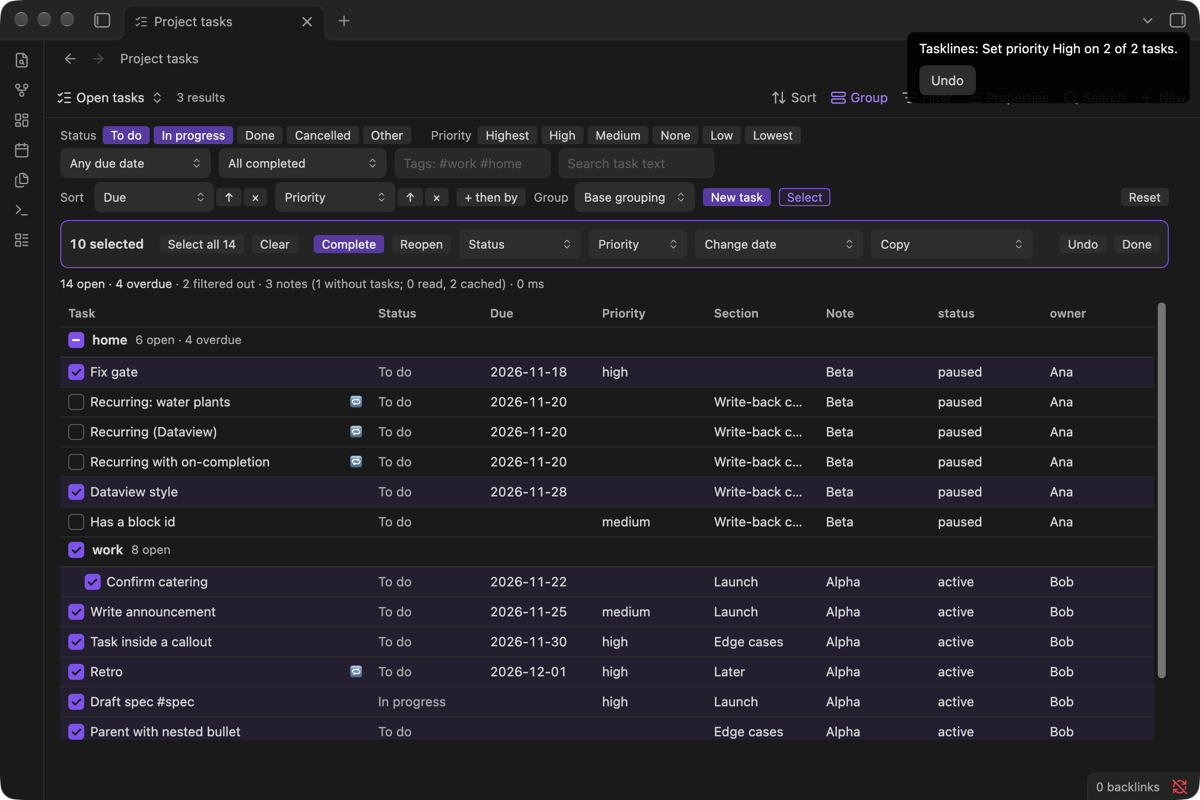
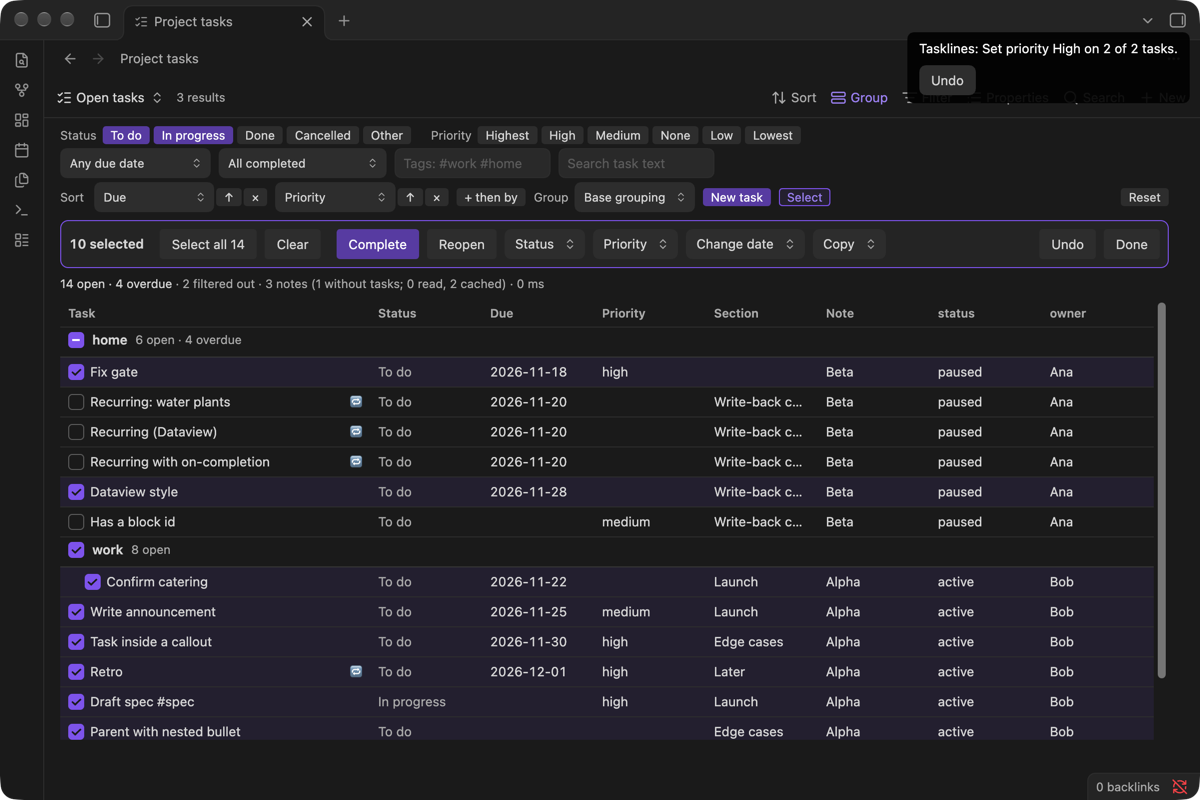
Tidy the select-mode bar and line up the group checkboxes
- The bar's buttons are as tall as its menus, so it reads as one row of
  controls; on phones the menus match the buttons' text size too.
- Menus are as wide as their label instead of their longest option.
- Group checkboxes on board columns, calendar days and the No date tray
  sit right above the tasks' boxes, from the theme's spacing values.
- The stats line keeps "0 ms" together (a no-break space).
- Retakes the README and listing images of select mode.

diff --git a/styles.css b/styles.css
@@ -244,8 +244,21 @@
 .tasklines-card.is-selected { border-color: var(--interactive-accent); }
 .tasklines-status-done .tasklines-select-text, .tasklines-status-cancelled .tasklines-select-text { text-decoration: line-through; color: var(--text-faint); }
 /* The group checkbox: first in its heading, in line with the tasks' boxes; the label's padding widens the tap target without moving the box. */
-.tasklines-group-select { display: inline-flex; align-items: center; flex: none; align-self: center; padding: 4px; margin: -4px; cursor: pointer; }
-.tasklines-touch .tasklines-group-select { padding: 11px; margin: -11px; }
+.tasklines-group-select {
+	--tasklines-hit: 4px;
+	display: inline-flex; align-items: center; flex: none; align-self: center; cursor: pointer;
+	padding: var(--tasklines-hit);
+	margin: calc(-1 * var(--tasklines-hit));
+	/* Moved in by the tasks' own inset (below), so the box sits right above theirs. */
+	margin-inline-start: calc(var(--tasklines-box-inset, 0px) - var(--tasklines-hit));
+}
+.tasklines-touch .tasklines-group-select { --tasklines-hit: 11px; }
+/* Board cards sit inside the column's side padding, with a border and their own padding; the heading has more padding. */
+.tasklines-column-head { --tasklines-box-inset: calc(var(--size-4-2) * 2 + 1px - var(--size-4-3)); }
+/* Calendar tray chips are narrower: 4px side padding. */
+.tasklines-cal-tray .tasklines-column-head { --tasklines-box-inset: calc(var(--size-4-2) + 5px - var(--size-4-3)); }
+/* Agenda chips: a border and their padding, inside the same section as the heading. */
+.tasklines-agenda-head { --tasklines-box-inset: calc(var(--size-4-2) + 1px); }
 .tasklines-view.is-selecting .tasklines-column-head, .tasklines-view.is-selecting .tasklines-agenda-head { justify-content: flex-start; align-items: center; gap: var(--size-4-2); }
 .tasklines-view.is-selecting .tasklines-column-head .tasklines-column-count, .tasklines-view.is-selecting .tasklines-agenda-head .tasklines-column-count { margin-inline-start: auto; }
 /* The bar: what's selected | actions | Undo and Done. It stays in view while the tasks scroll. */
@@ -253,6 +266,9 @@
 .tasklines-selection-bar .tasklines-toolbar-row { column-gap: var(--size-4-4); }
 .tasklines-selection-group, .tasklines-selection-actions, .tasklines-selection-end { display: flex; flex-wrap: wrap; align-items: center; gap: var(--size-4-2); }
 .tasklines-selection-end { margin-inline-start: auto; }
+/* Buttons as tall as the menus, so the bar reads as one row of controls; menus as wide as their label. */
+.tasklines-selection-bar .tasklines-btn { height: var(--input-height); padding: 0 var(--size-4-3); font-size: var(--font-ui-small); }
+.tasklines-selection-bar select.tasklines-select { field-sizing: content; height: var(--input-height); font-size: var(--font-ui-small); }
 /* Phones: two rows that never change shape. What's selected, Undo and Done on top; the three actions below, side by side. */
 .tasklines-selection-bar.is-compact .tasklines-toolbar-row { row-gap: var(--size-4-2); }
 .tasklines-selection-bar.is-compact .tasklines-selection-end { order: 1; }

diff --git a/test-vault/.obsidian/plugins/tasklines/styles.css b/test-vault/.obsidian/plugins/tasklines/styles.css
@@ -244,8 +244,21 @@
 .tasklines-card.is-selected { border-color: var(--interactive-accent); }
 .tasklines-status-done .tasklines-select-text, .tasklines-status-cancelled .tasklines-select-text { text-decoration: line-through; color: var(--text-faint); }
 /* The group checkbox: first in its heading, in line with the tasks' boxes; the label's padding widens the tap target without moving the box. */
-.tasklines-group-select { display: inline-flex; align-items: center; flex: none; align-self: center; padding: 4px; margin: -4px; cursor: pointer; }
-.tasklines-touch .tasklines-group-select { padding: 11px; margin: -11px; }
+.tasklines-group-select {
+	--tasklines-hit: 4px;
+	display: inline-flex; align-items: center; flex: none; align-self: center; cursor: pointer;
+	padding: var(--tasklines-hit);
+	margin: calc(-1 * var(--tasklines-hit));
+	/* Moved in by the tasks' own inset (below), so the box sits right above theirs. */
+	margin-inline-start: calc(var(--tasklines-box-inset, 0px) - var(--tasklines-hit));
+}
+.tasklines-touch .tasklines-group-select { --tasklines-hit: 11px; }
+/* Board cards sit inside the column's side padding, with a border and their own padding; the heading has more padding. */
+.tasklines-column-head { --tasklines-box-inset: calc(var(--size-4-2) * 2 + 1px - var(--size-4-3)); }
+/* Calendar tray chips are narrower: 4px side padding. */
+.tasklines-cal-tray .tasklines-column-head { --tasklines-box-inset: calc(var(--size-4-2) + 5px - var(--size-4-3)); }
+/* Agenda chips: a border and their padding, inside the same section as the heading. */
+.tasklines-agenda-head { --tasklines-box-inset: calc(var(--size-4-2) + 1px); }
 .tasklines-view.is-selecting .tasklines-column-head, .tasklines-view.is-selecting .tasklines-agenda-head { justify-content: flex-start; align-items: center; gap: var(--size-4-2); }
 .tasklines-view.is-selecting .tasklines-column-head .tasklines-column-count, .tasklines-view.is-selecting .tasklines-agenda-head .tasklines-column-count { margin-inline-start: auto; }
 /* The bar: what's selected | actions | Undo and Done. It stays in view while the tasks scroll. */
@@ -253,6 +266,9 @@
 .tasklines-selection-bar .tasklines-toolbar-row { column-gap: var(--size-4-4); }
 .tasklines-selection-group, .tasklines-selection-actions, .tasklines-selection-end { display: flex; flex-wrap: wrap; align-items: center; gap: var(--size-4-2); }
 .tasklines-selection-end { margin-inline-start: auto; }
+/* Buttons as tall as the menus, so the bar reads as one row of controls; menus as wide as their label. */
+.tasklines-selection-bar .tasklines-btn { height: var(--input-height); padding: 0 var(--size-4-3); font-size: var(--font-ui-small); }
+.tasklines-selection-bar select.tasklines-select { field-sizing: content; height: var(--input-height); font-size: var(--font-ui-small); }
 /* Phones: two rows that never change shape. What's selected, Undo and Done on top; the three actions below, side by side. */
 .tasklines-selection-bar.is-compact .tasklines-toolbar-row { row-gap: var(--size-4-2); }
 .tasklines-selection-bar.is-compact .tasklines-selection-end { order: 1; }

diff --git a/src/board-view.ts b/src/board-view.ts
@@ -103,7 +103,7 @@ export class TaskBoard {
 		this.statsEl.empty();
 		this.statsEl.createSpan({ cls: 'tasklines-summary', text: formatSummary(summarize(shown, input.today)) });
 		this.statsEl.createSpan({
-			text: `${hidden > 0 ? ` · ${hidden} filtered out` : ''} · ${input.notes.total} notes (${input.notes.total - input.notes.withTasks} without tasks) · ${s.ms.toFixed(0)} ms`,
+			text: `${hidden > 0 ? ` · ${hidden} filtered out` : ''} · ${input.notes.total} notes (${input.notes.total - input.notes.withTasks} without tasks) · ${s.ms.toFixed(0)}\u00a0ms`,
 		});
 
 		// Redrawing replaces every card: keep scroll positions and keyboard focus.

diff --git a/src/calendar-view.ts b/src/calendar-view.ts
@@ -162,7 +162,7 @@ export class TaskCalendar {
 		this.statsEl.empty();
 		this.statsEl.createSpan({ cls: 'tasklines-summary', text: formatSummary(summarize(shown, input.today)) });
 		this.statsEl.createSpan({
-			text: `${hidden > 0 ? ` · ${hidden} filtered out` : ''} · ${input.notes.total} notes (${input.notes.total - input.notes.withTasks} without tasks) · ${s.ms.toFixed(0)} ms`,
+			text: `${hidden > 0 ? ` · ${hidden} filtered out` : ''} · ${input.notes.total} notes (${input.notes.total - input.notes.withTasks} without tasks) · ${s.ms.toFixed(0)}\u00a0ms`,
 		});
 	}
 

diff --git a/src/view.ts b/src/view.ts
@@ -57,7 +57,7 @@ export function renderRows(statsEl: HTMLElement, list: VirtualList, input: Rende
 	statsEl.createSpan({
 		text:
 			`${hidden > 0 ? ` · ${hidden} filtered out` : ''} · ${input.notes.total} notes ` +
-			`(${input.notes.total - input.notes.withTasks} without tasks; ${s.filesRead} read, ${s.cacheHits} cached) · ${s.ms.toFixed(0)} ms`,
+			`(${input.notes.total - input.notes.withTasks} without tasks; ${s.filesRead} read, ${s.cacheHits} cached) · ${s.ms.toFixed(0)}\u00a0ms`,
 	});
 
 	const items: Item[] = [];

diff --git a/VERIFY.md b/VERIFY.md
@@ -269,6 +269,16 @@ Run on 2026-11-21 on the Mac (Obsidian 1.15.1, DevTools protocol) in `perf-vault
 - [x] **Writing.** 312 tasks in 88 notes → Scheduled tomorrow: asked first ("Change 312 tasks in 88 notes?"), then 2.1 s; Undo 1.9 s. 2,001 tasks in 2,001 notes: 13.5 s, Undo 12.9 s, so about 6.7 ms a task at either size. The count updated every ~110 ms throughout, the main thread was never blocked for more than 56 ms (at the final redraw), and every line came back on Undo.
 - [x] **Cancel.** Pressed at "Working… 65 of 256": 66 written (the one in progress finished), 190 skipped as cancelled, 56 skipped as already Low. Undo put back all 66.
 
+## Select mode layout polish
+
+Checked on 2026-11-21 by measuring the bar and checkboxes on the Mac (DevTools protocol) and looking at the Android emulator.
+
+- [x] **One row of controls.** Before, the bar's buttons were 18 px tall and its menus 30 px; now every control is 30 px on the same line. On the phone, Date and More use the same text size and height as Complete.
+- [x] **Menus fit their labels.** They were 98–168 px wide (Copy 162 px, sized to its longest option); now 73–119 px. iOS sizes menus its own way, so there they're as before.
+- [x] **Group checkboxes line up.** They were 5 px left of the task boxes on the board and 9 px in the agenda; now they're at the same x in the list, board, agenda and the month view's No date tray, on desktop and on the phone.
+- [x] **"0 ms" stays together.** The stats line used to leave "ms" alone on a line on the phone; the number and unit now wrap as one.
+- [x] The README and listing images were retaken to match.
+
 ## Release 1.3.0
 
 Full test pass on 2026-11-21 for the batch #46–#49 (bulk actions and their follow-ups), on `main` at `fa12642` plus the version bump and screenshots.
